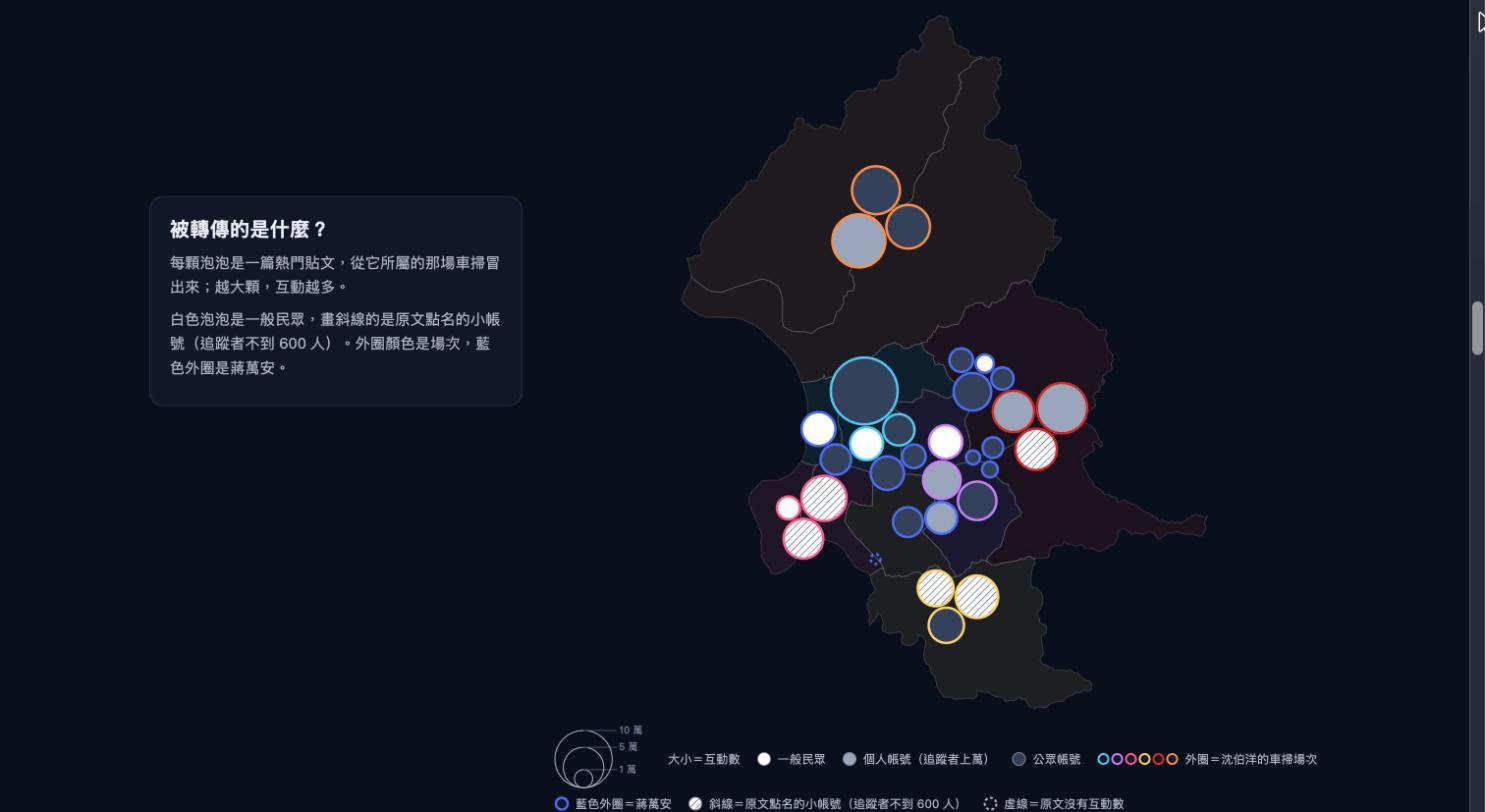
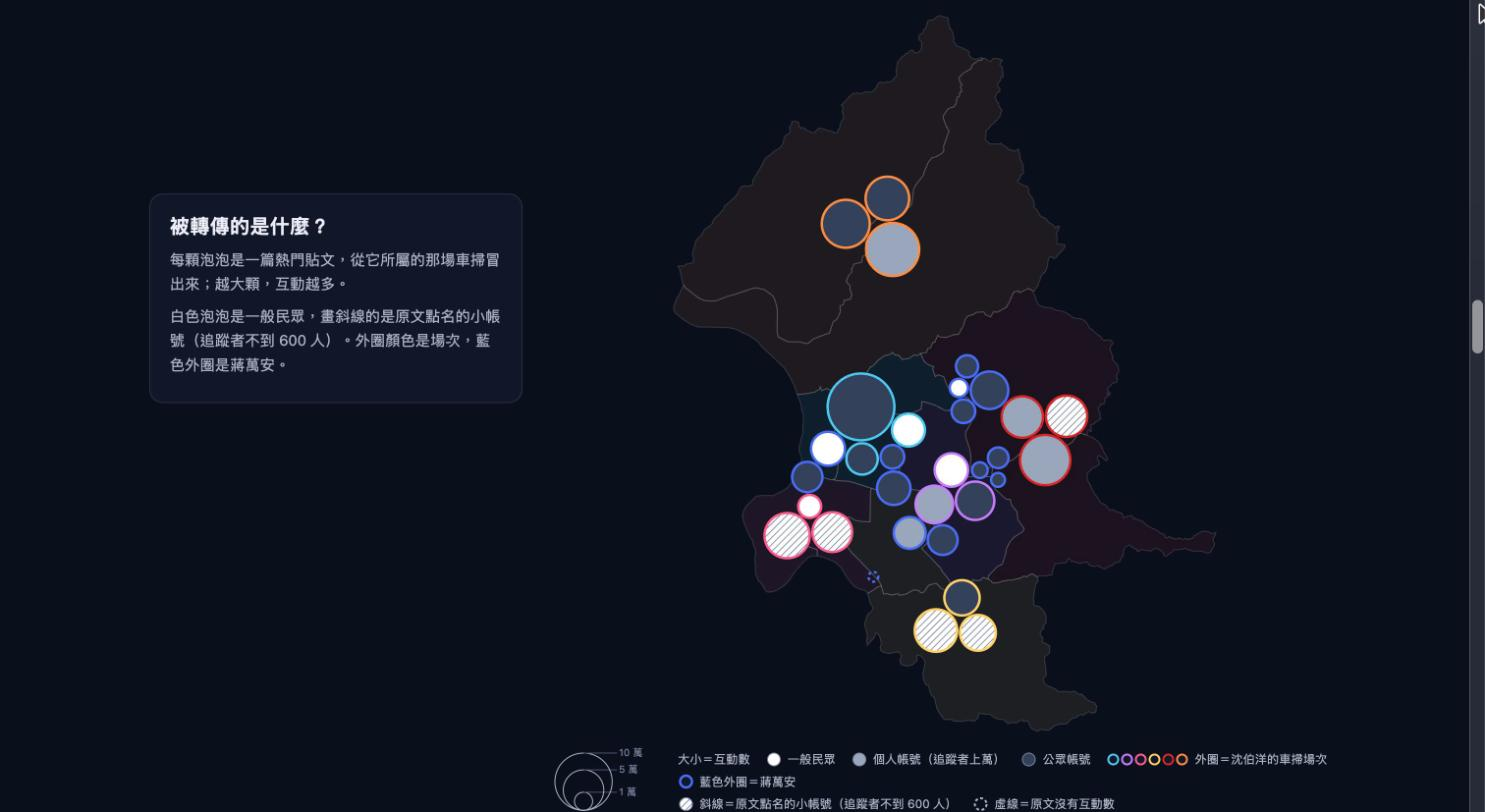
泡泡圖圖例分兩塊、圖 2 說明佔滿整行、圖 4 左右對齊、圖 5 刻度加單位
- 泡泡圖圖例：大小圓圈放左邊，其餘項目放右邊；斜線、虛線固定排在第二行，不再跑到大小圓圈下面
- 圖 2 分頁底下的說明文字拿掉寬度上限，佔滿整行
- 圖 4 左右兩張小圖的標題、圖例、圖、說明各自對齊，圖例靠下貼著圖，兩張圖的橫軸在同一高度
- 圖 5（含敘事段）橫軸刻度加上單位「筆」
- README 補充說明，截圖 02、03 換成新版

diff --git a/styles.css b/styles.css
@@ -100,6 +100,9 @@ html, body { margin: 0; background: #0a0f1c; }
 .legend-tick { stroke: var(--text-muted); stroke-width: 1; }
 .chart-legend { display: flex; flex-wrap: wrap; align-items: center; gap: 6px 16px; margin: 4px 0 10px; font-size: 12px; line-height: 1.4; color: var(--text-secondary); }
 .chart-legend .lg-item { display: inline-flex; align-items: center; gap: 6px; }
+/* 包成一塊的圖例項目：換行時留在這一塊裡，不會跑到左邊大小圓圈的下面；太窄放不下時整塊換到下一行 */
+.chart-legend .lg-group { display: flex; flex-wrap: wrap; align-items: center; gap: 6px 16px; flex: 1 1 240px; min-width: 0; }
+.chart-legend .lg-group > .lg-group { flex-basis: 100%; }
 /* 自由探索區：圖例和上方說明文字拉開一點（敘事舞台的圖例另外定位，不受影響） */
 .explore .chart-legend { margin-top: 18px; }
 .explore .facet .chart-legend { margin-top: 14px; }
@@ -120,7 +123,7 @@ html, body { margin: 0; background: #0a0f1c; }
 .bubble-col { font-size: 13px; font-weight: 700; fill: var(--text-primary); }
 .bubble-row { font-size: 15px; font-weight: 800; fill: var(--text-primary); }
 .bubble-stat { font-size: 12px; fill: var(--text-secondary); }
-.bubble-headline { font-size: 16px; font-weight: 600; margin: 8px 0 16px; max-width: 46em; }
+.bubble-headline { font-size: 16px; font-weight: 600; margin: 8px 0 16px; }
 .grouping { display: flex; gap: 6px; flex-wrap: wrap; margin: 4px 0; }
 .grouping button, .chips button {
   color: var(--text-primary); background: var(--surface-2); border: 1px solid var(--border);
@@ -208,8 +211,12 @@ html, body { margin: 0; background: #0a0f1c; }
 .lift-row:hover > rect:first-child, .lift-row:focus-visible > rect:first-child { fill: var(--wash); }
 [data-chart="overview"] g[role="button"]:hover > .marker-dot { r: 7px; }
 
-.facets { display: grid; grid-template-columns: 1fr 1fr; gap: 18px; }
-@media (max-width: 640px) { .facets { grid-template-columns: 1fr; } }
+/* 圖 4 左右兩張小圖用 subgrid 共用同一組列：標題、圖例、圖、說明各自對齊；
+   圖例行數不同時靠下貼著圖，兩張圖的橫軸就會在同一高度 */
+.facets { display: grid; grid-template-columns: 1fr 1fr; column-gap: 18px; row-gap: 0; }
+.facet { display: grid; grid-row: span 4; grid-template-rows: subgrid; min-width: 0; }
+.facet > .chart-legend { align-self: end; }
+@media (max-width: 640px) { .facets { grid-template-columns: 1fr; } .facet + .facet { margin-top: 18px; } }
 .readout { font-size: 12px; color: var(--text-secondary); margin: 4px 0 0; min-height: 4.8em; }
 
 .inspect {

diff --git a/js/bubbles.js b/js/bubbles.js
@@ -229,15 +229,23 @@
           + `<text x="${big * 2 + 8}" y="${ty + 3}">${v / 10000} 萬</text>`;
       }).join('');
       const sizeSvg = `<svg class="lg-size" width="${width}" height="${height}" viewBox="0 0 ${width} ${height}" aria-hidden="true">${circles}</svg>`;
+      // 大小圓圈單獨放左邊，其餘項目包成一塊放右邊；斜線、虛線固定排在第二行。
       H.fillLegend(legendBox, [
-        { html: sizeSvg, label: '大小＝互動數' },
-        { type: 'fill', color: H.AUTHOR_TYPES[0].fill, label: '一般民眾' },
-        { type: 'fill', color: H.AUTHOR_TYPES[1].fill, label: '個人帳號（追蹤者上萬）' },
-        { type: 'fill', color: H.AUTHOR_TYPES[2].fill, label: '公眾帳號' },
-        { type: 'rings', colors: H.sessions.map((s) => s.color), label: '外圈＝沈伯洋的車掃場次' },
-        { type: 'ring', color: H.CHIANG_COLOR, label: '藍色外圈＝蔣萬安' },
-        { type: 'hatch', id, color: H.AUTHOR_TYPES[0].fill, label: '斜線＝原文點名的小帳號（追蹤者不到 600 人）' },
-        { type: 'dashed-ring', color: '#aab3c5', label: '虛線＝原文沒有互動數' },
+        { html: sizeSvg, label: '' },
+        { group: [
+          { group: [
+            { html: '', label: '大小＝互動數' },
+            { type: 'fill', color: H.AUTHOR_TYPES[0].fill, label: '一般民眾' },
+            { type: 'fill', color: H.AUTHOR_TYPES[1].fill, label: '個人帳號（追蹤者上萬）' },
+            { type: 'fill', color: H.AUTHOR_TYPES[2].fill, label: '公眾帳號' },
+            { type: 'rings', colors: H.sessions.map((s) => s.color), label: '外圈＝沈伯洋的車掃場次' },
+            { type: 'ring', color: H.CHIANG_COLOR, label: '藍色外圈＝蔣萬安' },
+          ] },
+          { group: [
+            { type: 'hatch', id, color: H.AUTHOR_TYPES[0].fill, label: '斜線＝原文點名的小帳號（追蹤者不到 600 人）' },
+            { type: 'dashed-ring', color: '#aab3c5', label: '虛線＝原文沒有互動數' },
+          ] },
+        ] },
       ]);
     }
 

diff --git a/js/common.js b/js/common.js
@@ -174,9 +174,21 @@
     else target.after(box);
     return box;
   }
+  // items 裡可以放 { group: [...] }：這些項目包成一塊，換行時留在同一塊裡（例如泡泡圖大小圓圈右邊那塊）；
+  // 一塊裡面再放 group，每個就各佔一行。
   function fillLegend(box, items) {
     box.replaceChildren();
+    appendLegendItems(box, items);
+  }
+  function appendLegendItems(box, items) {
     for (const it of items) {
+      if (it.group) {
+        const g = document.createElement('div');
+        g.className = 'lg-group';
+        appendLegendItems(g, it.group);
+        box.append(g);
+        continue;
+      }
       const span = document.createElement('span');
       span.className = 'lg-item';
       if (it.html) span.innerHTML = it.html;

diff --git a/js/story.js b/js/story.js
@@ -131,7 +131,7 @@
     svg.append('g').attr('class', 'grid').selectAll('line').data(ticks).join('line')
       .attr('x1', (d) => x(d)).attr('x2', (d) => x(d)).attr('y1', m.top - 10).attr('y2', height - m.bottom);
     svg.append('g').attr('class', 'axis').selectAll('text').data(ticks).join('text')
-      .attr('x', (d) => x(d)).attr('y', height - m.bottom + 20).attr('text-anchor', 'middle').text((d) => H.fmt(d));
+      .attr('x', (d) => x(d)).attr('y', height - m.bottom + 20).attr('text-anchor', 'middle').text((d) => `${H.fmt(d)} 筆`);
     const rows = svg.append('g').selectAll('g').data(H.sessions).join('g')
       .attr('transform', (s, i) => `translate(0,${m.top + i * rowH + rowH / 2})`);
     const dy = narrow ? 10 : 0;

diff --git a/js/explore.js b/js/explore.js
@@ -539,7 +539,7 @@
         .attr('x1', (d) => xs(d)).attr('x2', (d) => xs(d)).attr('y1', m.top).attr('y2', height - m.bottom);
       gTicks.selectAll('text').data(vals).join('text')
         .attr('x', (d) => xs(d)).attr('y', height - m.bottom + 16).attr('text-anchor', 'middle')
-        .text((d) => fmt(Math.round(d / 100) * 100));
+        .text((d) => `${fmt(Math.round(d / 100) * 100)} 筆`);
       const zoomed = t.k > 1.001;
       axisTitle.text(narrow
         ? `筆／日（對數刻度${zoomed ? `，每格 ${step.toFixed(2)} 倍` : ''}）`

diff --git a/README.md b/README.md
@@ -54,14 +54,14 @@
 
 - **圖 1　洋流地圖＋詳細資料卡**：點一塊，旁邊的卡片顯示這一場的路線、同行者、被記住的畫面、高頻詞、當天筆數、隔天與 3 天後剩幾成、當天 vs 前 3 天的倍數，以及互動最高的 3 篇貼文。地圖可以播放或拖曳時間。
 - **圖 2　熱門貼文泡泡圖**：可切換「依地點」（預設）「依場次」「依發文者類型」分群。泡泡大小是互動數，填色是發文者類型（白＝一般民眾、灰＝個人帳號、深＝公眾帳號），外圈是場次顏色（蔣萬安是藍色），斜線是原文點名的小帳號（追蹤者不到 600 人）。點沈伯洋的貼文會切到那一場。
-- **圖 3　每天的掃街討論**（總覽）、**圖 4　對齊掃街當天**（取代原圖三、四，沈、蔣用同一個百分比刻度）、**圖 5　當天 vs 前 3 天**（取代原圖二）。
+- **圖 3　每天的掃街討論**（總覽）、**圖 4　對齊掃街當天**（取代原圖三、四，沈、蔣用同一個百分比刻度，左右兩張小圖的橫軸對齊在同一高度）、**圖 5　當天 vs 前 3 天**（取代原圖二，橫軸刻度標上單位「筆」）。
 
 **操作方式**：滑鼠滑過看數字並預覽場次；點來選場次，點上方的「全部場次」或任一張圖右上角的「清除選取」取消（圖 2 的按鈕也會收起貼文內容，圖 4 的也會清掉蔣萬安小圖的選取）；鍵盤可用 Tab 移到各個按鈕、區塊、泡泡，按 Enter 或空白鍵選取；在對齊小圖上按左右鍵切換場次。圖 4、圖 5 可以把游標移到圖上滾動滑鼠滾輪，或用觸控板兩指開合，放大縮小橫軸；放大後可以左右拖曳，按右上角「還原縮放」回到原樣（縮回原寬或放到最大後再滾，就會繼續捲動網頁）。最下方的「看資料表」列出所有數字。
 
 **設計上的選擇**
 
 - 地圖要發光，整頁用深色。6 場車掃各一種顏色，地圖、總覽、對齊圖、倍數圖、泡泡外圈都用同一套，讀者靠顏色就能跨圖找到同一場。
-- 每張圖都附圖例，說明顏色、大小、亮度、空心／實心各代表什麼；地圖左上角另有亮度參考條，白色三角形標出目前這一天的筆數。
+- 每張圖都附圖例，說明顏色、大小、亮度、空心／實心各代表什麼。泡泡圖的圖例把大小圓圈放左邊，填色、外圈放右邊第一行，斜線、虛線放第二行。地圖左上角另有亮度參考條，白色三角形標出目前這一天的筆數。
 - 沈伯洋 6 場各用一種場次色；蔣萬安的掃街地點、貼文外圈、對齊圖的線統一用藍色。藍色選中等亮度，在深色背景上看得清楚，也和 6 個場次色、泡泡的白／灰／深填色分得開。
 - 泡泡的填色改用明暗（白、灰、深）表示發文者類型，不和場次顏色衝突；「一般民眾」最亮，呼應「素人也能衝出數萬互動」。
 - 原文點名的 5 個小帳號用斜線底紋標出，不用光暈：地圖上的發光代表討論量，泡泡圖若也用發光，讀者會以為是「比較熱」。「不到 600 人」是原文的說法，原文沒有給各帳號的實際追蹤者數。
